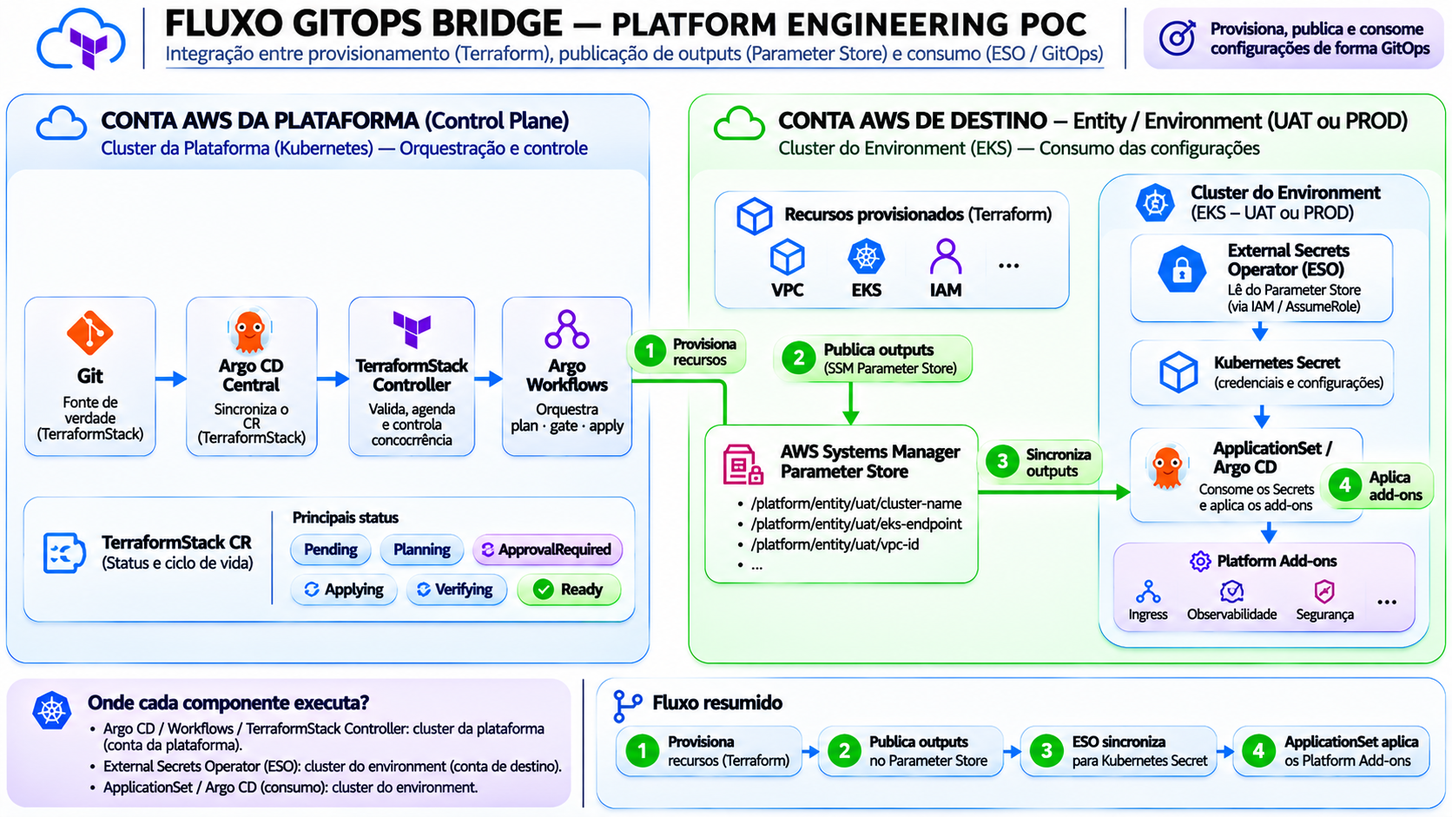
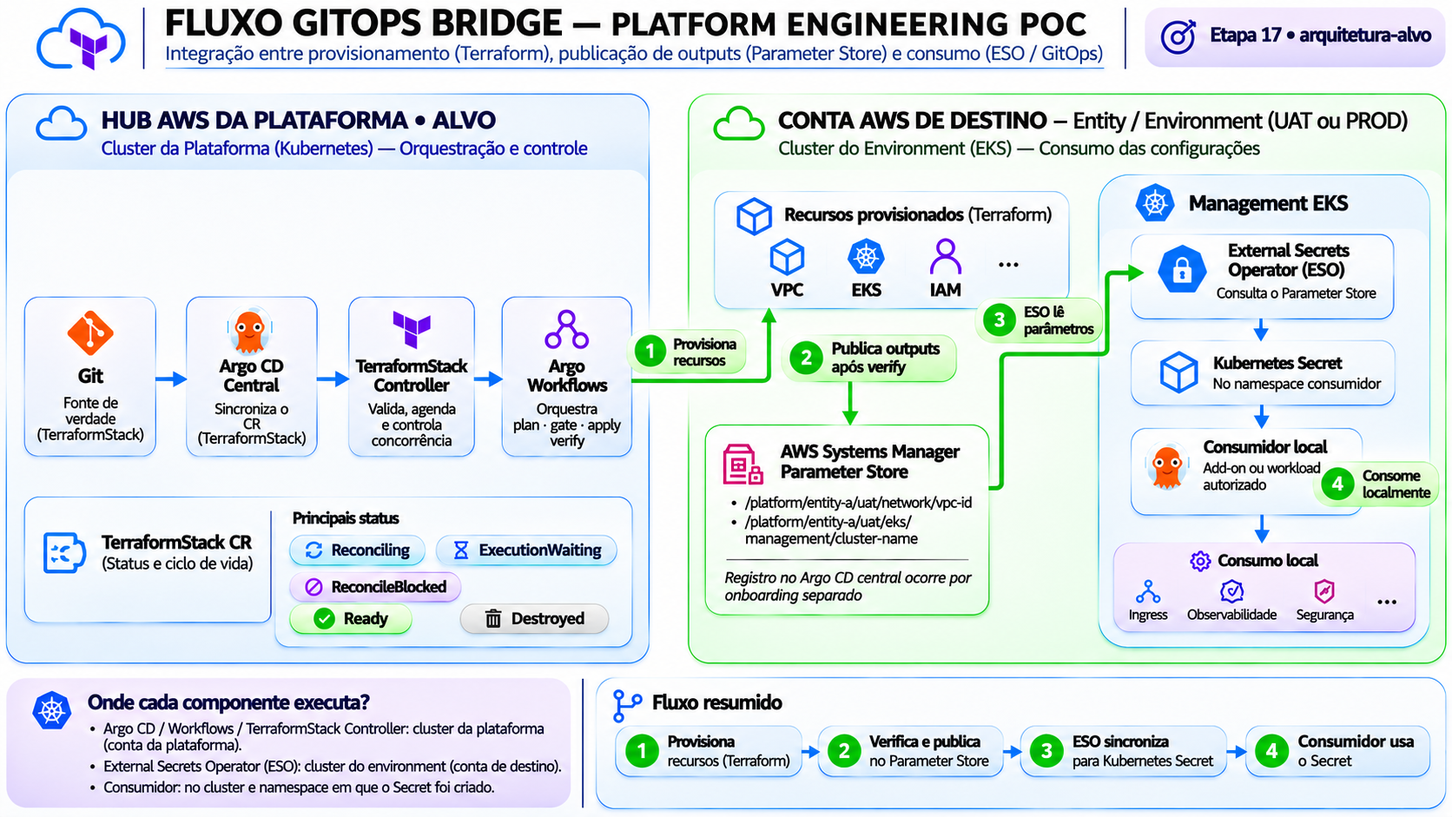
docs: alinha arquitetura e diagramas ao TerraformStack atual

diff --git a/docs/flows/gitops-bridge.md b/docs/flows/gitops-bridge.md
@@ -2,11 +2,7 @@
 
 [← Arquitetura](../architecture.md) · [GitOps Flow](gitops.md) · [TerraformStack Flow](terraformstack.md) · [Roadmap](../learning-roadmap.md)
 
-> **Estado:** arquitetura-alvo documentada; integração ainda não implementada.
-> **Hoje:** o laboratório roda em `kind`; o `TerraformStack` da Etapa 04 possui contrato inicial, sem outputs AWS reais.
-> **Futuro:** Terraform publica outputs selecionados em AWS Systems Manager Parameter Store na **conta do Environment**; consumidores Kubernetes autorizados os utilizam por meio do External Secrets Operator (ESO).
->
-> **Imagem:** o arquivo `gitops-bridge-flow.png` será adicionado manualmente nesta pasta. O desenho é **lógico**, não representa uma conexão de rede ou IAM já provisionada.
+O Simulator validado no Hub `kind` termina com a verificação do ConfigMap local. As raízes AWS expõem `bridge_parameters` e o publicador já está versionado. A Etapa 17 integra a publicação após `verify` ao SSM da conta do Environment e valida o consumo por External Secrets Operator (ESO) no Management EKS. O diagrama mostra a topologia-alvo. [Raízes e publicador](../../foundation/stacks/README.md)
 
 ![GitOps Bridge — provisionamento, publicação de outputs e consumo no Environment](./gitops-bridge-flow.png)
 
@@ -30,14 +26,14 @@ Na arquitetura AWS futura há pelo menos **duas fronteiras**: a conta de platafo
 
 | Componente | Onde executa / reside | Ownership |
 | --- | --- | --- |
-| **Argo CD central, TerraformStack Controller e Argo Workflows** | Control Plane da plataforma: `kind` hoje, EKS de plataforma como evolução possível | Platform Team |
+| **Argo CD central, TerraformStack Controller e Argo Workflows** | Hub da plataforma. Argo CD autogerenciado no `kind` e EKS Capability for Argo CD no alvo AWS | Platform Team |
 | **VPC, IAM, Management EKS, PCI e Non-PCI** | Conta AWS do Environment selecionado | Foundation / Entity Core, sob governança do Platform Team |
 | **AWS SSM Parameter Store** | **Mesma conta e região autorizadas do Environment** para os parâmetros publicados nesse destino | Publicação governada pela plataforma |
 | **External Secrets Operator para consumo de gestão** | **Management EKS do Environment**, quando esse cluster já existir | Instalação/configuração-base via Platform GitOps |
 | **ESO de workloads (quando necessário)** | **EKS PCI ou Non-PCI** correspondente, sem compartilhamento automático entre clusters | Platform Team para instalação; consumidores autorizados para ExternalSecrets |
 | **Kubernetes Secrets gerados pelo ESO** | Namespace do **cluster onde o ESO reconcilia** | Consumidor e políticas Kubernetes do cluster |
 | **ApplicationSet corporativo** | **Argo CD central**, não no Management EKS apenas por haver ESO local | Platform Team |
-| **Argo CD local** | Management EKS do Environment, ou capability gerenciada associada a ele na arquitetura AWS sob avaliação | Aplicações e extensões locais autorizadas |
+| **Argo CD local** | Instância autogerenciada no Management EKS do Environment | Aplicações e extensões locais autorizadas |
 
 **Regra:** o ESO **não é um serviço por conta AWS**. É um controller executando **dentro de um cluster Kubernetes**. Uma instância no Management EKS não distribui Kubernetes Secrets automaticamente para PCI, Non-PCI ou Control Plane.
 
@@ -50,7 +46,7 @@ Da mesma forma, **o ESO do Management não entrega automaticamente metadados ao 
 ```text
 Git (TerraformStack) → Argo CD central → Kubernetes API
   → TerraformStack Controller → Argo Workflows
-  → plan → política / aprovação → apply → verify
+  → plan → política / aprovação → autorização → claim → apply → verify
   → recursos na conta AWS de Entity / Environment
 ```
 
@@ -72,12 +68,12 @@ Exemplo **ilustrativo** de caminhos:
 /platform/entity-a/uat/network/vpc-id
 /platform/entity-a/uat/eks/management/cluster-name
 /platform/entity-a/uat/eks/management/cluster-endpoint
-/platform/entity-a/uat/iam/external-secrets-role-arn
+/platform/entity-a/uat/network/web-nonpci-subnet-ids
 ```
 
 Esses exemplos representam **metadados operacionais não secretos**. Não publicar state, plan binário, kubeconfig, tokens, senhas nem outputs classificados como sensíveis. Mesmo valores não secretos precisam de acesso restrito quando revelam topologia interna.
 
-**Importante:** a **etapa de publicação** é uma capacidade adicional prevista, não algo que todo `terraform apply` execute hoje. Ela precisa de critérios de idempotência, reexecução, falhas parciais e política de limpeza.
+Na Etapa 17, a pipeline AWS chama o publicador após `verify`. O utilitário confere a conta, recebe a região do destino e grava chaves da allowlist como `String`. A reexecução atualiza os mesmos caminhos. A limpeza de parâmetros descontinuados é explícita. [Publicador](../../foundation/scripts/publish-bridge-outputs.py)
 
 ### 3.3 Consumo no Management EKS
 
@@ -133,7 +129,7 @@ Os três passos são independentes:
 
 **Outputs no Parameter Store não registram clusters.** A conectividade de API Kubernetes, as EKS Access Entries/IAM, as labels de classificação e os limites PCI/Non-PCI devem ser estabelecidos explicitamente.
 
-A avaliação do **EKS Argo CD Capability** para landing zones isoladas é uma decisão de implementação da arquitetura AWS, não pré-requisito para compreender este fluxo no laboratório `kind`.
+A arquitetura AWS adota a **EKS Capability for Argo CD** como Argo CD central. A Etapa 16 valida registro por ARN, Access Entries e conectividade gerenciada antes do aceite do Bridge. [ADR-0008](../adr/0008-managed-argocd-connectivity.md)
 
 ## 6. Segurança e contratos de publicação
 
@@ -164,7 +160,7 @@ A avaliação do **EKS Argo CD Capability** para landing zones isoladas é uma d
 
 ## 8. Laboratório: kind primeiro, AWS depois
 
-### Simulação local — sem recursos AWS
+### Ensaio local opcional
 
 Objetivo: demonstrar o conceito produtor → distribuição → consumidor, sem depender de IAM ou EKS.
 
@@ -174,7 +170,7 @@ Objetivo: demonstrar o conceito produtor → distribuição → consumidor, sem 
 4. Alterar a versão do output e verificar a atualização; simular falha e parâmetro ausente.
 5. Documentar que **isso não comprova a integração ESO + SSM real**. Um ensaio genuíno do ESO exigirá um provedor suportado, por exemplo um provedor local de teste ou a AWS na etapa correspondente.
 
-### Integração AWS — quando o roadmap chegar ao destino
+### Integração AWS na Etapa 17
 
 A evolução exige conta UAT autorizada, TerraformStack real, role de publicação, Parameter Store, Management EKS consumidor, ESO, RBAC e verificações. O [Roadmap V2](../learning-roadmap.md) prevê a integração AWS na **Etapa 17**, após o provisionamento e onboarding dos clusters das Etapas 14–16.
 

diff --git a/docs/flows/gitops.md b/docs/flows/gitops.md
@@ -1,8 +1,6 @@
 # GitOps Flow — Platform Engineering POC
 
-> **Estado:** arquitetura-alvo aprovada (v1); implementação incremental conforme o roadmap.  
-> **Atual:** Hub `kind` com bootstrap por scripts, Argo CD central e catálogo de add-ons.  
-> **Futuro:** EKS e múltiplos ambientes com EKS Capability for Argo CD como Argo CD central. [ADR-0008](../adr/0008-managed-argocd-connectivity.md)
+As Etapas 01 a 06 validaram o Hub `kind`, o catálogo do Argo CD e o Terraform Stack Simulator. Crossplane Core tem um smoke test local na Etapa 07. A topologia AWS prevê a EKS Capability for Argo CD no Hub e Argo CD autogerenciado em cada Management EKS. [Roadmap](../learning-roadmap.md) · [ADR-0008](../adr/0008-managed-argocd-connectivity.md)
 
 ![Fluxo GitOps: Platform Addons, Crossplane, TerraformStack e Domain Applications](./gitops-flow.png)
 
@@ -18,7 +16,7 @@ O GitOps abrange quatro fluxos complementares:
 | --- | --- | --- | --- |
 | **Platform GitOps** | Catálogo de add-ons e Applications | Argo CD central e ApplicationSet | Componentes Kubernetes corporativos |
 | **Infrastructure GitOps — Crossplane** | CRs de Capabilities | Crossplane central e Provider AWS | S3, Aurora PostgreSQL e demais Capabilities |
-| **Infrastructure GitOps — Terraform** | CR `TerraformStack` | TerraformStack Controller → Argo Workflows → Terraform Executor | Foundation, rede, IAM e EKS |
+| **Infrastructure GitOps — Terraform** | CR `TerraformStack` | TerraformStack Controller → Argo Workflows → Terraform Executor | ConfigMap no Simulator. Foundation, rede, IAM e EKS no alvo AWS |
 | **Domain GitOps** | Manifests de aplicações no repositório da squad | Argo CD local | Aplicações nos clusters PCI/Non-PCI autorizados |
 
 > **Importante:** o diagrama é **lógico**, não prova de conectividade entre VPCs/landing zones nem de recursos AWS já implantados. O Argo CD central não executa diretamente Terraform nem substitui o Crossplane.
@@ -77,9 +75,9 @@ As duas primeiras Capabilities do roadmap são **`ObjectStorage` (S3)** e **`Dat
 
 1. O Platform Team (ou persona autorizada) propõe um `TerraformStack` em Git.
 2. Após validação e revisão, o Argo CD central sincroniza **o CR de intenção** no Hub.
-3. O **TerraformStack Controller** valida módulo, revisão, Entity/Environment e destino confiável; avalia quando iniciar uma execução.
-4. O **Argo Workflows** orquestra `plan`, política, aprovação humana quando exigida e `apply` pelo Terraform Executor.
-5. O Terraform provisiona a infraestrutura; o controller verifica a execução e atualiza `TerraformStack.status`.
+3. O **TerraformStack Controller** valida a estrutura da intenção, verifica dependências e agenda cada tentativa. O CR identifica a fonte em `spec.sourceRef` e pode informar o contexto em `spec.context`.
+4. A pipeline do **Argo Workflows** resolve a revisão Git, o destino e o state conforme o perfil confiável. O Terraform Executor disponibiliza os binários para `plan`, avaliação OPA e, quando exigida, validação da aprovação humana.
+5. O controller autoriza a execução conforme o contrato. O passo de apply registra o claim antes de executar o plano autorizado. A pipeline verifica o resultado e o controller atualiza `TerraformStack.status`.
 
 **Não há `terraform apply` em todo reconcile da API Kubernetes.** A Etapa 06 exercita Terraform, OPA, aprovação e drift no Simulator. A Etapa 13 leva o apply aprovado à Network UAT. As Etapas 28–29 validam drift e políticas na AWS.
 
@@ -120,21 +118,21 @@ As landing zones podem ser isoladas, sem VPC Peering nem Transit Gateway. O padr
 
 Git define **configuração e intenção declarativas**; não é obrigatório armazenar nele outputs dinâmicos, credenciais ou Terraform state.
 
-O [GitOps Bridge Flow](gitops-bridge.md) documenta separadamente: publicação de outputs selecionados do Terraform no Parameter Store, consumo por External Secrets Operator e, quando aplicável, parâmetros de ApplicationSet. Também serão tratados atualização, revogação e limpeza de parâmetros, sem exposição de segredos em annotations.
+Na Etapa 17, o GitOps Bridge publica outputs selecionados do Terraform no Parameter Store e o External Secrets Operator os materializa em Secrets nos namespaces consumidores. O ApplicationSet central consulta o cadastro criado pelo onboarding do cluster. [GitOps Bridge](gitops-bridge.md)
 
 ## 10. Implementação incremental
 
 | Etapa | Evidência principal |
 | --- | --- |
-| 01–02 | Hub `kind`, Argo CD central e catálogo de Applications |
-| 03–05 | Argo Workflows, Crossplane Core e API TerraformStack |
-| 06–09 | Controller, UAT, IAM/backend e primeiro Terraform apply aprovado |
-| 10–12 | EKS Management/Non-PCI, onboarding multicluster, Argo CD local e perfis corporativos |
-| 13–14 | GitOps Bridge (Parameter Store → ESO) e smoke test HTTP no Non-PCI |
-| 15–17 | Capabilities AWS por Crossplane |
-| 18–21 | Primeira aplicação FastAPI com Aurora/S3, CI GitHub Actions/ECR e CD GitOps |
-| 22–27 | Observabilidade, drift, reconciliação por políticas e isolamento |
-| 28–31 | Experience Layer e Golden Path integrado |
+| 01–03 | Hub `kind`, Argo CD central e Argo Workflows |
+| 04–06 | CRD, controller, pipeline e Simulator com Terraform e OpenTofu |
+| 07–08 | Crossplane Core com recurso local e aceite GitOps |
+| 09–13 | Foundation, Hub EKS, UAT, identidade, state e primeiro apply de Network |
+| 14–18 | Management e Non-PCI, GitOps multicluster, Bridge e smoke test HTTP |
+| 19–21 | Identidade Crossplane e Capabilities AWS |
+| 22–25 | Aplicação FastAPI com Aurora/S3, GitHub Actions, ECR e Argo CD local |
+| 26–31 | Observabilidade, drift, reconciliação por políticas e isolamento |
+| 32–35 | Experience Layer e Golden Path integrado |
 
 Os laboratórios iniciais permanecem em **kind**; adicionar dependências AWS antes da etapa correspondente não faz parte desta aprovação.
 

diff --git a/README.md b/README.md
@@ -34,7 +34,7 @@ O exercício implementa uma fatia do **Rastreamento de Encomendas**. Um operador
 
 [**Ver diagrama em tamanho completo**](docs/arquitetura%20Plataform.png) · [Topologia lógica e fluxos detalhados](docs/architecture.md#2-visão-geral)
 
-> **Nota de arquitetura:** o diagrama oficial está em `docs/arquitetura Plataform.png` e representa a **topologia-alvo**. Para contratos e decisões atualizadas, consultar os [ADRs](docs/adr/README.md). O nome vigente do contrato declarativo proposto é `TerraformStack` (CRD + controller); `TerraformRun` fica reservado para uma execução individual, se necessário.
+O diagrama mostra a topologia-alvo. O Hub funciona em `kind` no laboratório atual. As Etapas 01 a 06 foram reproduzidas com o Terraform Stack Simulator, incluindo o ensaio com OpenTofu em state próprio. O Crossplane Core tem um guia de smoke test local na Etapa 07. [Estado da POC](docs/architecture.md#2-visão-geral) · [Evidências do Simulator](labs/06-terraformstack-simulator.md#evidências-de-aceite).
 
 **Environment é o contexto UAT/PROD associado à conta AWS inteira, não apenas ao Core.** O Data Plane contém **Core Infrastructure compartilhada** e **Domains** de negócio/aplicação. Um Domain pode possuir Capabilities, namespaces e apps em ambos os ambientes. Capabilities continuam entregues por Crossplane central e aplicações por Argo CD local.
 
@@ -72,8 +72,8 @@ A infraestrutura do Domain é simulada em **pastas do monorepo**, sob ownership 
 
 ## 🔧 Decisões arquiteturais
 
-- **GitOps multicluster:** Argo CD autogerenciado no Hub `kind`; no Hub EKS, Amazon EKS Capability for Argo CD, com registro por ARN e Access Entries. As VPCs Platform, UAT e PROD permanecem isoladas, com NAT e sem Peering/TGW. Argo CD local mantém Domain Applications. [ADR-0008](docs/adr/0008-managed-argocd-connectivity.md)
-- **TerraformStack.** O CRD da Etapa 04 descreve a infraestrutura desejada e chega à API do Hub via Argo CD central. A Etapa 05 instala o controller Go (controller-runtime, Leader Election e watches) e a pipeline de referência do Argo Workflows. O controller concentra reconciliação e autorização. O adapter Argo traduz o contrato de execução. A pipeline resolve Git, contexto e state e executa os passos Terraform e OPA. [Execution Contract](docs/flows/terraformstack-execution-contract.md). A Etapa 06 exercita Terraform real, políticas e drift no Hub local com o Simulator. A primeira stack AWS exige aprovação humana na Etapa 13. As Etapas 28 e 29 validam drift e reconciliação por políticas na AWS. `TerraformRun` fica como nome opcional de uma execução individual. [ADR-0006](docs/adr/0006-terraformrun-and-application-ci.md)
+- **GitOps multicluster.** O Hub `kind` usa Argo CD autogerenciado. O alvo AWS adota EKS Capability for Argo CD, registro por ARN e Access Entries, e VPCs isoladas para Platform, UAT e PROD com saída via NAT. O Argo CD local entrega as Domain Applications nos destinos autorizados. [ADR-0008](docs/adr/0008-managed-argocd-connectivity.md)
+- **TerraformStack.** O CRD da Etapa 04 descreve a infraestrutura desejada e chega à API do Hub via Argo CD central. A Etapa 05 instala o controller Go (controller-runtime, Leader Election e watches) e a pipeline de referência do Argo Workflows. O controller concentra reconciliação e autorização. O adapter Argo traduz o contrato de execução. A pipeline resolve Git, contexto e state e executa os passos Terraform e OPA. A Etapa 06 verifica políticas e drift no Simulator. O primeiro apply na AWS está previsto para a Etapa 13, com aprovação humana. As Etapas 28 e 29 tratam de drift e reconciliação por políticas na AWS. [Execution Contract](docs/flows/terraformstack-execution-contract.md) · [ADR-0006](docs/adr/0006-terraformrun-and-application-ci.md)
 - **Domain Applications:** código Python, testes, **GitHub Actions**, Dockerfile e manifests Kubernetes no **repositório separado da squad** (Fase 5). CI publica imagem no Amazon ECR e propõe atualização declarativa de digest; o Argo CD local entrega a aplicação nos EKS autorizados.
 - **Management EKS:** Argo CD local, Operators **a escolher** e OpenTelemetry Collector/gateway para logs e traces; backend central com **Grafana + Loki + Tempo**. Estratégia de métricas/Prometheus em validação.
 - **Ownership:** Foundation → Entity Core Infrastructure → Domain Infrastructure → Domain Applications.
@@ -82,7 +82,7 @@ A infraestrutura do Domain é simulada em **pastas do monorepo**, sob ownership 
 
 ## ☁ Estratégia AWS
 
-A POC usa um Hub `kind` descartável. A Etapa 06 tem como aceite comprovar o ciclo completo do TerraformStack com Terraform real sobre um ConfigMap, OPA, auto apply, aprovação, bloqueio, drift e destroy. [Guia do Lab 06](labs/06-terraformstack-simulator.md)
+O Simulator gerencia um ConfigMap no Hub `kind`. O ensaio local comprovou auto apply, aprovação auditada, bloqueio por política, drift, retry e destroy com Terraform. O OpenTofu usa o mesmo contrato de execução e um state separado. [Guia da Etapa 06](labs/06-terraformstack-simulator.md)
 
 Depois do aceite local de TerraformStack e Crossplane, as Etapas 09–10 preparam a conta de plataforma, provisionam o Hub EKS Auto Mode e reinstalam os blocos do Git. As Etapas 11–12 preparam UAT e o executor. A primeira Network da spoke, Management EKS e Non-PCI entram nas Etapas 13–15. As Capabilities AWS entram após o smoke test. [Roteiro prático](docs/learning-roadmap.md)
 

diff --git a/docs/repository-structure.md b/docs/repository-structure.md
@@ -10,8 +10,8 @@ O código é organizado pelo componente que a plataforma instala e mantém. A nu
 
 | Caminho-alvo | Camada e gestão |
 | :--- | :--- |
-| `config/` | YAMLs de valores por stack (`network.yaml`, `eks.yaml` etc.), organizados em global → Entity → Environment. O módulo compartilhado `configuration` resolve a herança usada pelo Simulator e pelas raízes AWS |
-| `foundation/modules/` + `foundation/config/<entity>/<env>/` | **Foundation** · implementações de stacks `network`/`eks`, módulos Terraform internos reutilizáveis e cadastro autorizado do Environment |
+| `foundation/config/` | YAMLs de valores por stack, da camada global à Entity e ao Environment, e registros de destino `environment.yaml` |
+| `foundation/stacks/` + `foundation/modules/` | Raízes `simulator`, `network` e `eks`, com módulos Terraform reutilizáveis, incluindo `configuration` |
 | `data-plane/<entity>/core-infrastructure/<env>/` | **Entity Core** · compartilhado por ambiente, EKS por Terraform |
 | `data-plane/<entity>/domains/<domain>/domain.yaml` | **Domain** · registro lógico único, não CRD |
 | `data-plane/<entity>/domains/<domain>/<env>/infrastructure/` | **Domain Infrastructure** · manifests de Capabilities sob gestão do DevOps Federado; Crossplane central é reconciliador |
@@ -22,13 +22,13 @@ Os registros de Domain ficam no monorepo. O DevOps Federado mantém os manifests
 
 **Environment é a conta AWS UAT/PROD inteira**, não a pasta de Core. O Core é a parte compartilhada e o Domain possui os recursos de negócio. Ambos ficam no **Data Plane**. O registro de Environment fica na Foundation por ownership central, mas descreve o destino de todos os recursos do Environment.
 
-Os valores de cada **stack** seguem a ordem `config/<arquivo>.yaml`, `config/<entity>/<arquivo>.yaml` e `config/<entity>/<env>/<arquivo>.yaml`. A stack usa o módulo compartilhado `configuration` para resolver precedência e flags. O `TerraformStack` guarda a revisão versionada da configuração usada no plan. Os registros `environment.yaml` mantêm o cadastro do destino AWS na Foundation. [Decisão sobre configuração por entidade e ambiente](adr/0006-terraformrun-and-application-ci.md#configuração-por-entidade-e-ambiente)
+O repositório mantém os valores em `foundation/config/`. Cada stack informa a raiz de configuração e a hierarquia ao módulo `configuration`, que compõe os arquivos na ordem global, Entity e Environment. A pipeline do Simulator usa o mesmo commit para código e YAMLs de valores e registra a referência efetiva em `status.resolvedSource.reference`. Os registros `environment.yaml` descrevem o destino AWS autorizado. [Decisão sobre configuração por entidade e ambiente](adr/0006-terraformrun-and-application-ci.md#configuração-por-entidade-e-ambiente)
 
-### Atualizações de arquitetura-alvo (a implementar)
+### Componentes do TerraformStack
 
-- **TerraformStack (CRD + controller).** O contrato de infraestrutura desejada fica em `control-plane/` e é sincronizado via Argo CD central. O controller Go separa `internal/controller` (reconciliação), `internal/execution` (interface) e `internal/execution/argo` (integração Argo). Argo Workflows, Terraform Executor e [Policy Engine](../workflow-plane/policy-engine/README.md) ficam em `workflow-plane/`. A Etapa 13 comprova o apply aprovado. A Etapa 06 valida políticas e drift no Simulator. As Etapas 28 e 29 validam esses mecanismos na AWS. `TerraformRun` é nome opcional de uma execução individual. [Estrutura do controller](../control-plane/terraformstack/controller/README.md) · [ADR-0009](adr/0009-terraformstack-runtime.md).
-- **GitHub Actions das aplicações:** será mantido **em repositório de aplicação de teste separado**, a integrar durante o lab correspondente. Este monorepo não incluirá código/CI da aplicação.
-- **Management EKS:** Argo CD local, Operators a escolher e OpenTelemetry Collector/gateway para observabilidade central (Grafana/Loki/Tempo).
+- `control-plane/terraformstack/` reúne CRD, controller Go, configuração do adapter Argo, exemplos e overlay do Hub local. O CRD e o controller têm Applications próprias. [Estrutura do controller](../control-plane/terraformstack/controller/README.md).
+- `workflow-plane/argo-workflows/terraformstack/` contém WorkflowTemplate, scripts e perfil do Simulator. O runner e o Policy Engine são blocos do Workflow Plane. [Execution Contract](flows/terraformstack-execution-contract.md) · [Policy Engine](../workflow-plane/policy-engine/README.md).
+- `foundation/stacks/simulator/` cria o ConfigMap do ensaio local. As raízes Network e EKS fazem parte da evolução AWS, cujo primeiro apply aprovado está previsto na Etapa 13. [Roadmap](learning-roadmap.md).
 
 ### Três personas e a fronteira entre repositórios
 

diff --git a/docs/adr/0003-reconciliation-and-gitops.md b/docs/adr/0003-reconciliation-and-gitops.md
@@ -1,6 +1,6 @@
 # ADR-0003 — Execução e reconciliação sem sobreposição
 
-**Estado:** decisão vigente, implementação pendente · **Data:** 19/11/2026
+**Estado:** decisão vigente, com TerraformStack validado no Hub local · **Data:** 19/11/2026
 
 **Decisão:** **um Crossplane central** no Control Plane com XRDs/Compositions/Providers para Capabilities AWS, sem Crossplane em cascata. **Argo CD central** sincroniza CRs de Capability do Git com a Kubernetes API do Hub; não observa YAMLs lógicos de Domain/Environment como CRs. **Argo CD local** do Management EKS administra configuração, namespaces, políticas e workloads em clusters autorizados. **Terraform + Argo Workflows** coordena Foundation/EKS, plan, gates, apply e verificação; Argo CD não executa Terraform.
 
@@ -8,7 +8,9 @@
 
 **Por quê:** evita controllers concorrendo pelos mesmos recursos, isola operação AWS dos Deployments e preserva autonomia federada via Git.
 
-**Complemento (21/11/2026):** o `TerraformStack` CRD + controller é o contrato declarativo **proposto de infraestrutura desejada**, com plan inicial/periódico, **detecção de drift** e **Policy Engine** para auto apply, aprovação ou bloqueio. O Argo CD central aplica o CR; Argo Workflows realiza plan/gate/apply com status, sem `apply` contínuo em toda reconciliação. `TerraformRun` pode ser o nome de uma execução isolada, se necessário. O **GitHub Actions das Domain Applications ficará em repositório de aplicação separado**, enquanto o Argo CD local mantém a entrega por GitOps. A coleta nos Management EKS será por **OpenTelemetry Collector/gateway**, para visualização central no Grafana com Loki/Tempo. Ver [ADR-0006](0006-terraformrun-and-application-ci.md).
+**TerraformStack.** O CRD declara a infraestrutura desejada. O Argo CD central sincroniza o CR e o controller agenda tentativas em Argo Workflows. A pipeline resolve a fonte e o destino, gera o plano e consulta OPA. O apply usa o plano autorizado depois do claim da execução. O Simulator valida aplicação automática, aprovação, bloqueio e drift no Hub local. [ADR-0006](0006-terraformrun-and-application-ci.md) · [ADR-0009](0009-terraformstack-runtime.md).
+
+**Telemetria.** O desenho AWS prevê OpenTelemetry Collector nos Management EKS com destino central em Grafana, Loki e Tempo.
 
 **Consequências:** Crossplane não monitora Git, apenas a API. Credenciais IAM precisam de associação autorizada por Environment e validação de Domain. O Argo CD local pode precisar de segregação de acesso PCI. Terraform só converge quando é executado; indisponibilidade do Hub interrompe reconciliação das Capabilities centrais, não necessariamente os workloads.
 
@@ -16,6 +18,6 @@
 
 O catálogo do Hub declara uma `Application` por componente que precisa ser sincronizado e verificado de forma independente. Cada recurso tem uma `Application` responsável. Argo Workflows e Crossplane Core são compartilhados pelas etapas do laboratório. As etapas locais usam sync manual para permitir a inspeção da revisão e do diff antes de aplicar a mudança.
 
-O `TerraformStack` segue essa divisão. A Application `terraformstack-crd` publica o contrato na Etapa 04, permitindo validá-lo na API antes de ligar o controller. As Applications `terraformstack-controller` e `terraformstack-workflows` entregam o controller e o WorkflowTemplate na Etapa 05. O controller cria cada Workflow em resposta à solicitação. A pausa para aprovação ocorre dentro do Workflow no Simulator da Etapa 06 e no primeiro apply AWS da Etapa 13. [ADR-0006](0006-terraformrun-and-application-ci.md)
+O `TerraformStack` segue essa divisão. A Application `terraformstack-crd` publica o contrato na Etapa 04, permitindo validá-lo na API antes de ligar o controller. As Applications `terraformstack-controller` e `terraformstack-workflows` entregam o controller e o WorkflowTemplate na Etapa 05. O controller cria cada Workflow em resposta à solicitação. O Simulator da Etapa 06 validou a pausa para aprovação dentro do Workflow. A Etapa 13 usa o mesmo contrato de autorização no primeiro apply da rede UAT. [ADR-0006](0006-terraformrun-and-application-ci.md)
 
 [Arquitetura](../architecture.md) · [Índice](README.md)

diff --git a/docs/learning-roadmap.md b/docs/learning-roadmap.md
@@ -17,6 +17,8 @@ A POC é montada em **oito fases e 36 etapas (00–35)**. Cada etapa instala um 
 | **7 — Experience Layer** | 32–33 | Personas, permissões, catálogo e Starter Kit |
 | **8 — Golden Path ponta a ponta** | 34–35 | Solicitação federada e entrega integrada da aplicação |
 
+As Etapas 01 a 06 foram reproduzidas na `main` no Hub `kind` `platform-management`. A Etapa 07 tem guia e manifests para smoke test local. O aceite GitOps do Crossplane na Etapa 08 e as entregas AWS a partir da Etapa 09 seguem no roteiro. [Evidências do Simulator](../labs/06-terraformstack-simulator.md#evidências-de-aceite).
+
 ## Fase 1 — Base do Hub local
 
 | Etapa | Entrega | Evidência |
@@ -34,7 +36,7 @@ Concluir o ciclo TerraformStack antes do Crossplane. Cada reconciliador gerencia
 | :--- | :--- | :--- |
 | **04** | [API do TerraformStack](../labs/04-terraformstack-crd.md) | CRD `v1alpha1` estabelecido e schema validado na API |
 | **05** | [Controller e pipeline do TerraformStack](../labs/05-terraformstack-runtime.md) | Controller Go e adapter Argo, configuração e perfil local imutáveis, runner e WorkflowTemplate instalados via GitOps; duas réplicas saudáveis, Lease e RBAC verificados |
-| **06** | [Terraform Stack Simulator](../labs/06-terraformstack-simulator.md) | GitOps, Terraform real, decisão OPA, aprovação, drift, retry, concorrência e destroy comprovados no ConfigMap e no status |
+| **06** | [Terraform Stack Simulator](../labs/06-terraformstack-simulator.md) | GitOps, Terraform real, três decisões OPA, aprovação auditada, claim, drift, retry e destroy comprovados no ConfigMap e no status. OpenTofu validado com state próprio |
 | **07** | [Crossplane Core e smoke test](../labs/07-crossplane-core.md) | Core disponível, Function saudável, XRD estabelecido e Composition local observável |
 | **08** | Crossplane de ponta a ponta no `kind` | Argo CD sincroniza XR e o Crossplane cria, atualiza e remove um ConfigMap distinto do Simulator. Conferir schema, `Synced`, `Ready`, ownership, re-sync e permissões |
 
@@ -65,7 +67,7 @@ Usar o [modelo de Environment](../foundation/environment.example.yaml) e o regis
 
 Validar a identidade de origem dos Pods do Hub EKS e a role autorizada de UAT usando STS. Preparar backend S3 e locks por destino e stack. Conferir autorização, região e custo antes das operações AWS. A etapa termina com identidade e backend verificados.
 
-**Plan e apply da Etapa 13.** Usar as [raízes Terraform](../foundation/stacks/README.md) e a mesma pipeline do Simulator. A pipeline resolve fonte, destino, backend e identidade pelo cadastro autorizado. A revisão GitOps e os SHAs efetivos ligam o plano à configuração. O OPA encaminha um plano permitido à aprovação humana e bloqueia violações ou erro de avaliação. Os cenários de auto apply e remediação de drift na AWS entram na Etapa 29.
+**Plan e apply da Etapa 13.** Usar as raízes Terraform e o contrato de execução validado no Simulator. A integração AWS precisa de perfil de execução para resolver fonte, destino, backend e identidade pelo cadastro autorizado. A revisão GitOps e os SHAs efetivos ligam o plano à configuração. O OPA encaminha um plano permitido à aprovação humana e bloqueia violações ou erro de avaliação. Os cenários de auto apply e remediação de drift na AWS entram na Etapa 29. [Raízes Terraform](../foundation/stacks/README.md) · [Contrato de execução](flows/terraformstack-execution-contract.md).
 
 **Marco da fase.** O Hub EKS conduz o TerraformStack de UAT. Management e Non-PCI passam pelo GitOps, e o smoke test confirma a entrega antes da aplicação de negócio. A definição de perfil e os testes de isolamento governam o avanço de PCI e PROD.
 

diff --git a/docs/flows/terraformstack.md b/docs/flows/terraformstack.md
@@ -4,13 +4,15 @@
 
 O `TerraformStack` declara a infraestrutura desejada de Foundation e Entity Core. Na Etapa 06, o aceite verifica o fluxo de ponta a ponta no Hub `kind`. O Terraform Stack Simulator usa o provider Kubernetes para gerenciar um ConfigMap com a configuração efetiva de Network. A integração com a AWS segue nas etapas do roadmap. [Guia do Simulator](../../labs/06-terraformstack-simulator.md)
 
-O [diagrama do TerraformStack](terraformstack-flow.png) representa a topologia-alvo na AWS. Os rótulos do PNG descrevem etapas conceituais. Consulte a seção de status deste guia para os campos e valores da API instalada.
+O diagrama mostra os caminhos de execução, política e drift validados no Simulator. O painel da conta AWS representa o destino das próximas fases. A seção de status descreve os campos e as condições da API instalada.
+
+![Fluxo do TerraformStack e reconciliação de drift](terraformstack-flow.png)
 
 ## 1. Do Git ao Workflow
 
 1. O Git versiona o manifesto e os YAMLs de configuração. O Argo CD sincroniza o CR na API do Hub e injeta o SHA resolvido pela Application em `platform.example.io/revision`. O estado `Synced` indica que o manifesto foi entregue à API. [Application do Simulator](../../platform/hub/addons/catalog/terraformstack-simulator.yaml)
 2. O controller Go usa Controller Runtime (padrão Kubebuilder), watches de TerraformStacks e Workflows, cache de informers e fila com rate limiting. Eventos de dependências e alterações de status ou revisão GitOps reativam a reconciliação; drift e retry usam RequeueAfter. Ele valida a estrutura da intenção, verifica as dependências e grava em `status.execution` a intenção declarada e o nome do Workflow antes de criá-lo. Em seguida, cria ou acompanha aquele Workflow em `argo-workflows`. O CR permanece como a identidade da stack e cada Workflow representa uma tentativa. [Controller](../../control-plane/terraformstack/controller/internal/controller/reconciler.go)
-3. O Argo Workflows executa a pipeline governada. Terraform calcula o plano, OPA avalia as mudanças e o apply depende da decisão e da autorização para aquela execução. O adapter Argo traduz os resultados e a fase do Workflow para a interface interna; o reconciliador decide as transições e atualiza o CR. `TerraformRun` fica reservado como nome opcional para uma execução individual. [WorkflowTemplate](../../workflow-plane/argo-workflows/terraformstack/workflowtemplate.yaml)
+3. O Argo Workflows executa a pipeline governada. Terraform calcula o plano, OPA avalia as mudanças e o apply depende da decisão e da autorização para aquela execução. O adapter Argo traduz os resultados e a fase do Workflow para a interface interna; o reconciliador decide as transições e atualiza o CR. [WorkflowTemplate](../../workflow-plane/argo-workflows/terraformstack/workflowtemplate.yaml)
 
 ## 2. Contrato e resolução de revisões
 

diff --git a/foundation/stacks/README.md b/foundation/stacks/README.md
@@ -8,7 +8,7 @@ As raízes `network` e `eks` usam o módulo `configuration` para compor os YAMLs
 2. Inicializar cada raiz com seu próprio backend S3 (`bucket`, `region`, `key` por entidade/ambiente/stack e `use_lockfile=true`). Executar a raiz Network pelo fluxo de plan, revisão e apply aprovado. Ela divide a VPC IPv4 em blocos iguais para web PCI, web Non-PCI, database PCI e database Non-PCI. Cada grupo recebe três subnets privadas, uma por AZ.
 3. Com `network.nat.enabled: true`, uma 13ª subnet, pública, na primeira AZ hospeda o NAT zonal com EIP e rota para o Internet Gateway. Apenas as duas tabelas web usam rota padrão para o NAT. Um NAT compartilhado reduz o número de gateways e concentra a saída numa AZ. NAT, IPv4 público e tráfego entre AZs podem gerar custos. As tabelas de database mantêm a rota local. As quatro classes de subnet identificam destinos para os controles de acesso e testes de isolamento da Etapa 30.
 4. Para a raiz EKS, passar os outputs Network `vpc_id` e `subnets`, uma versão Kubernetes suportada, os CIDRs privados de gestão em `api_client_cidrs` e a role administrativa autorizada em `admin_role_arn`. O plano cria EKS Auto Mode nos grupos web habilitados. Preparar acesso ao endpoint privado desde o ambiente de bootstrap/onboarding. O bootstrap externo usa esta mesma raiz na conta de plataforma. Em UAT o Hub coordena a execução pelo TerraformStack.
-5. Após verify, o Workflow pode executar o publicador abaixo com os parâmetros do destino confiável. A flag YAML `publishParameterStore` de cada stack controla o conteúdo de `bridge_parameters`. O padrão é desligado para o Hub e o override UAT habilita a publicação na spoke. Os outputs Terraform continuam disponíveis em ambos. O publicador usa AWS CLI com identidade temporária restrita ao prefixo do destino. Repetir a etapa após uma falha parcial atualiza os mesmos caminhos. Desabilitar a flag interrompe novas escritas e preserva os valores já publicados. A limpeza dos parâmetros obsoletos é explícita.
+5. Na Etapa 17, a pipeline AWS integra o publicador abaixo após `verify`, com os parâmetros do destino confiável. A flag YAML `publishParameterStore` de cada stack controla o conteúdo de `bridge_parameters`. O padrão é desligado para o Hub e o override UAT habilita a publicação na spoke. Os outputs Terraform continuam disponíveis em ambos. O publicador usa AWS CLI com identidade temporária restrita ao prefixo do destino. Repetir a etapa após uma falha parcial atualiza os mesmos caminhos. Desabilitar a flag interrompe novas escritas e preserva os valores já publicados. A limpeza dos parâmetros obsoletos é explícita.
 
 ```bash
 set -o pipefail

diff --git a/workflow-plane/README.md b/workflow-plane/README.md
@@ -6,7 +6,7 @@ O Workflow Plane mantém processos, GitOps central, aprovação e execução. O 
 | :--- | :--- |
 | **Argo CD central** | Sincroniza CRs Kubernetes de `TerraformStack` e de Capability na API do Hub |
 | **Argo Workflows** | Orquestra a pipeline canônica, a avaliação OPA e o gate de aprovação. O Simulator usa esses steps na Etapa 06 |
-| **Terraform Executor** | Imagem genérica de ferramentas que executa os scripts de Terraform do WorkflowTemplate |
+| **Terraform Executor** | Imagem genérica com Terraform, OpenTofu e as ferramentas usadas pelos scripts do WorkflowTemplate |
 
 No Hub `kind`, Argo CD central é autogerenciado. No Hub EKS, adotar EKS Capability for Argo CD para sincronização local e cross-account por ARN e Access Entries, sem rotas entre VPCs. [ADR-0008](../docs/adr/0008-managed-argocd-connectivity.md).
 
@@ -14,7 +14,7 @@ No Hub `kind`, Argo CD central é autogerenciado. No Hub EKS, adotar EKS Capabil
 
 ## Aplicações e execuções declarativas
 
-- **TerraformStack.** O controller Go fica no Control Plane e coordena o fluxo pelo adapter Argo. A pipeline de referência resolve Git, contexto, backend, variáveis e política. WorkflowTemplate, runner, scripts e Policy Engine implementam o [Execution Contract](../docs/flows/terraformstack-execution-contract.md). A Etapa 13 valida o `plan`, a aprovação humana e o `apply` do mesmo plano. A Etapa 06 exercita as decisões OPA e drift localmente. As Etapas 28–29 validam esses mecanismos na AWS. `TerraformRun` permanece um nome opcional para a execução individual.
+- **TerraformStack.** O controller Go fica no Control Plane e coordena o fluxo pelo adapter Argo. A pipeline de referência resolve Git, contexto, backend, variáveis e política. WorkflowTemplate, runner, scripts e Policy Engine implementam o [Execution Contract](../docs/flows/terraformstack-execution-contract.md). A Etapa 06 comprova as decisões OPA, o claim e o drift localmente. A Etapa 13 prevê o primeiro apply da Network UAT, com aprovação vinculada ao plano. As Etapas 28–29 exercitam drift e políticas na AWS.
 - **Domain Applications:** GitHub Actions fará o **CI/CD em um repositório de aplicação de teste separado**, a integrar durante o lab correspondente. Build/test/scan/publicação → atualização GitOps revisada → Argo CD **local** no Management EKS faz deploy nos clusters autorizados. Não adicionar código ou workflow CI da aplicação neste monorepo.
 
 [ADR-0006](../docs/adr/0006-terraformrun-and-application-ci.md)

diff --git a/docs/adr/0001-platform-contracts.md b/docs/adr/0001-platform-contracts.md
@@ -1,6 +1,6 @@
 # ADR-0001 — API e modelo de contratos
 
-**Estado:** decisão vigente, implementação pendente · **Data:** 19/11/2026
+**Estado:** decisão vigente, com API TerraformStack validada no Hub local · **Data:** 19/11/2026
 
 **Decisão:** Kubernetes API Server é a API oficial dos contratos técnicos Kubernetes-native; não exigir uma REST API paralela. **Entity** é identidade organizacional; **Environment** é destino UAT/PROD com conta AWS; **Domain** é unidade lógica de ownership, negócio e consumo de infra/aplicações. Os três começam como registros YAML validados no Git, **não CRDs/XRDs**. **Capability** é produto técnico com XRD/Composition/Provider especializado em Crossplane, começando por `ObjectStorage`. Não criar `CapabilityClaim` genérico.
 
@@ -8,6 +8,6 @@
 
 **Consequências.** O pipeline valida o Environment e resolve a conta e a identidade autorizadas antes de aplicar uma Capability. Solicitações federadas também validam o Domain e seu ownership. Os registros YAML ficam no Git para consulta. O Argo CD central sincroniza os CRs Kubernetes. Um controller de lifecycle de contas depende de uma necessidade futura.
 
-**Sequência.** O `TerraformStack` usa dados fictícios nas Etapas 04 e 05. A referência lógica a Entity e Environment passa a ser resolvida pelo executor na Etapa 12, a partir do registro de UAT validado na Etapa 11. As primeiras Capabilities são exercícios do Platform Team em UAT. O contrato de Domain, incluindo ownership e Environments permitidos, entra na Etapa 34, antes da primeira solicitação federada. [Roteiro](../learning-roadmap.md)
+**Sequência.** As Etapas 04 a 06 exercitam a API do `TerraformStack` e a resolução do contexto local com dados fictícios. A Etapa 11 valida o registro de UAT. A integração AWS das Etapas 12–13 usa esse registro para resolver o destino autorizado. As primeiras Capabilities são exercícios do Platform Team em UAT. O contrato de Domain, incluindo ownership e Environments permitidos, entra na Etapa 34, antes da primeira solicitação federada. [Roteiro](../learning-roadmap.md)
 
 [Arquitetura](../architecture.md) · [Índice](README.md)

diff --git a/AGENTS.md b/AGENTS.md
@@ -74,4 +74,4 @@ O monorepo organiza a implementação por bloco e usa a numeração nos guias e 
 
 Cada alteração AWS exige `sts get-caller-identity`, conta/região conferidas, credenciais temporárias, IAM mínimo, custo e autorização por operação. Terraform state fora do Git e segregado. Nunca commitar segredos, dados corporativos, certificados ou kubeconfigs. Os IDs reais das contas UAT e PROD desta POC podem ser versionados exclusivamente no campo `aws.accountId` dos dois registros `environment.yaml` sob `foundation/config/entity-a/`. Outros identificadores AWS reais ficam fora do Git. Destruição de conta nunca é efeito de remover YAML; aprovar docs não autoriza `apply`/`destroy`. Validar isolamento entre Domain, UAT/PROD e PCI. Trabalhar via branch e PR, **sem merge automático**.
 
-- **Contrato de integração TerraformStack:** parametrizar nomes de WorkflowTemplate, inputs/outputs e referências de policy/approval no `controller-config.yaml`; manter fixas as garantias de autorização e lifecycle. Não permitir seleção arbitrária pelo CR. Manter a reconciliação separada do adapter Argo; Argo Workflows é a única integração suportada. WorkflowTemplate, runner e OPA são a implementação de referência confiável da POC. [ADR-0009](docs/adr/0009-terraformstack-runtime.md). Alterações de contrato exigem drenagem e revisão coordenada de RBAC/admissão.
+- **Contrato de integração TerraformStack:** parametrizar WorkflowTemplate, ServiceAccount e nomes dos inputs/outputs no `controller-config.yaml`. Definir política e aprovação no WorkflowTemplate e nos scripts da pipeline. Manter fixas as garantias de autorização e lifecycle. Não permitir seleção arbitrária pelo CR. Manter a reconciliação separada do adapter Argo. Argo Workflows é a única integração suportada. WorkflowTemplate, runner e OPA são a implementação de referência confiável da POC. [ADR-0009](docs/adr/0009-terraformstack-runtime.md). Alterações de contrato exigem drenagem e revisão coordenada de RBAC/admissão.
